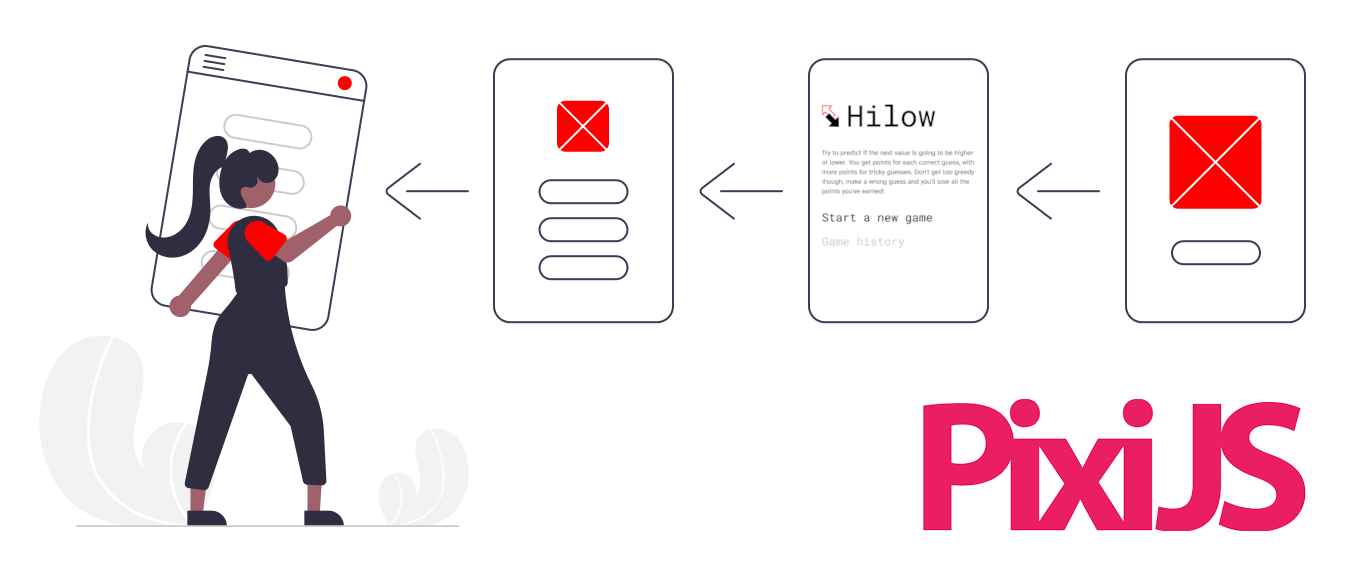
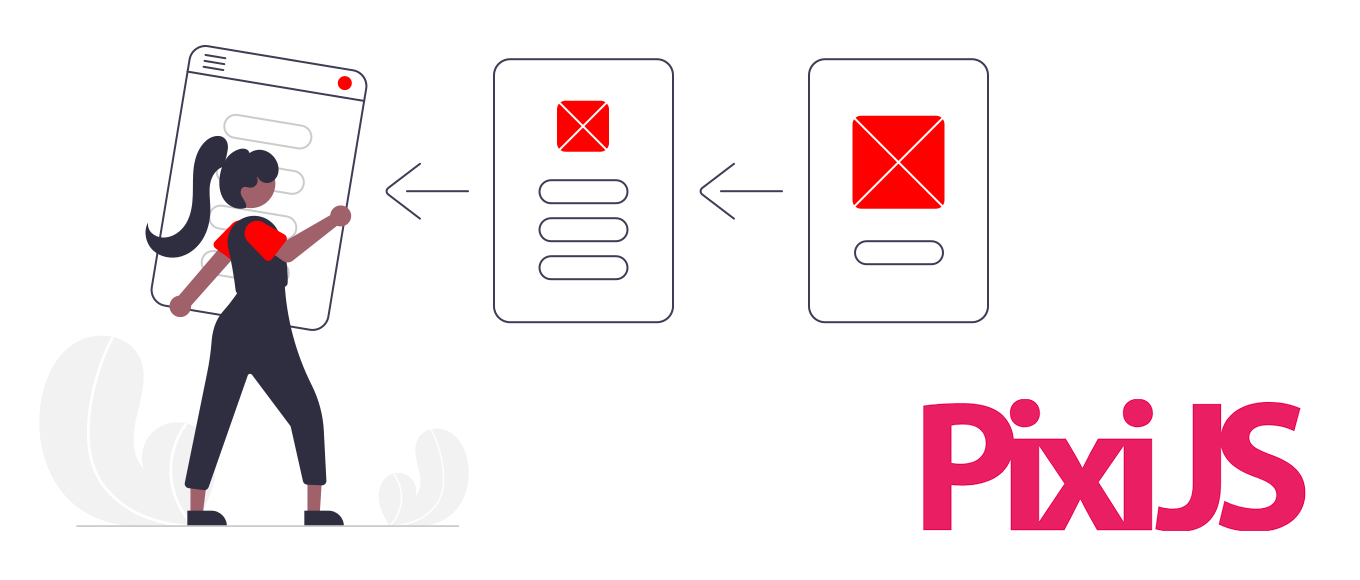
Minor edits for consistency (#8)

diff --git a/202101-javascript-pixijs-game/src/hilo/menu.js b/202101-javascript-pixijs-game/src/hilo/menu.js
@@ -1,7 +1,7 @@
 import * as PIXI from 'pixi.js';
 import Gameplay from './gameplay';
 // We're going to be using the asset loader to load this
-import hilowArrowsAsset from './assets/sprites/hilow-arrows.png';
+import hiloArrowsAsset from './assets/sprites/hilo-arrows.png';
 import codeRevueAsset from './assets/sprites/code-revue-text.png';
 
 export default class Menu {
@@ -15,7 +15,7 @@ export default class Menu {
     return new Promise((resolve) => {
       const setup = async (loader, resources) => {
         // Game icon sprite
-        const arrowsSprite = new PIXI.Sprite(resources[hilowArrowsAsset].texture);
+        const arrowsSprite = new PIXI.Sprite(resources[hiloArrowsAsset].texture);
         arrowsSprite.width = 46
         // Scale the height to match the width
         arrowsSprite.scale.y = arrowsSprite.scale.x;
@@ -23,7 +23,7 @@ export default class Menu {
         arrowsSprite.y = 98;
 
         // Game title text next to the icon
-        const titleText = new PIXI.Text('Hilow', {
+        const titleText = new PIXI.Text('Hilo', {
           fontFamily: 'Roboto Mono',
           fill: 0x000000,
           fontSize: 62
@@ -106,7 +106,7 @@ export default class Menu {
       // The loader raises an exception if you try to load the same
       // resource twice, and since this loader instance is shared,
       // we need to confirm that the asset isn't already loaded
-      const assets = [hilowArrowsAsset, codeRevueAsset];
+      const assets = [hiloArrowsAsset, codeRevueAsset];
       for (const asset of assets) {
         if (!PIXI.Loader.shared.resources[asset]) {
           PIXI.Loader.shared.add(asset);

diff --git a/202101-javascript-pixijs-game/src/hilo/gameplay.js b/202101-javascript-pixijs-game/src/hilo/gameplay.js
@@ -1,7 +1,7 @@
 import * as PIXI from 'pixi.js';
 import Menu from './menu'
 // We're going to be using the asset loader to load this
-import hilowArrowsAsset from './assets/sprites/hilow-arrows.png';
+import hiloArrowsAsset from './assets/sprites/hilo-arrows.png';
 
 export default class Gameplay {
 
@@ -31,7 +31,7 @@ export default class Gameplay {
 
         // Game icon sprite gets a this reference because we
         // need to be able to modify it in the onUpdate function
-        this.arrowsSprite = new PIXI.Sprite(resources[hilowArrowsAsset].texture);
+        this.arrowsSprite = new PIXI.Sprite(resources[hiloArrowsAsset].texture);
         this.arrowsSprite.width = 120
         // Scale the height to match the width
         this.arrowsSprite.scale.y = this.arrowsSprite.scale.x;
@@ -48,8 +48,8 @@ export default class Gameplay {
       // The loader raises an exception if you try to load the same
       // resource twice, and since this loader instance is shared,
       // we need to confirm that the asset isn't already loaded
-      if (!PIXI.Loader.shared.resources[hilowArrowsAsset]) {
-        PIXI.Loader.shared.add(hilowArrowsAsset);
+      if (!PIXI.Loader.shared.resources[hiloArrowsAsset]) {
+        PIXI.Loader.shared.add(hiloArrowsAsset);
       }
 
       // Load any assets and setup

diff --git a/website-content/content/posts/create-scene-system-pixijs.md b/website-content/content/posts/create-scene-system-pixijs.md
@@ -17,7 +17,7 @@ You can! Full-featured game engines often include a scene system along with a to
 
 ## A scene management system
 
-We're going to create a scene management system for PixiJS that loosely follows the pattern of Android activities. If you haven't done any Android development don't worry, the pattern will make sense on its own. Were going ot call this scene manager the "coordinator" and it's going to be in charge of loading scenes in, updating the active scene, and removing old scenes.
+We're going to create a scene management system for PixiJS that'll let us organize our different "scenes" in to individual modules that can be swapped in and out of view. If you're familiar with Android development this is going to look a lot like dealing with activities. If you haven't done any Android development don't worry, the pattern will make sense on its own. Were going ot call this scene manager the "coordinator" and it's going to be in charge of loading scenes in, updating the active scene, and removing old scenes.
 
 ## What is a scene?
 

diff --git a/202101-javascript-pixijs-game/README.md b/202101-javascript-pixijs-game/README.md
@@ -29,12 +29,12 @@ docker-compose run --service-ports development npm start
 This will build a poduction-ready bundle in the `dist` directory that can be uploaded to your server.
 
 ```sh
-docker-compose run --service-ports development npm build
+docker-compose run development npm build
 ```
 
 ### Clean
 
 ```sh
-docker-compose run --service-ports development npm clean
+docker-compose run development npm clean
 docker-compose down --remove-orphans
 ```
